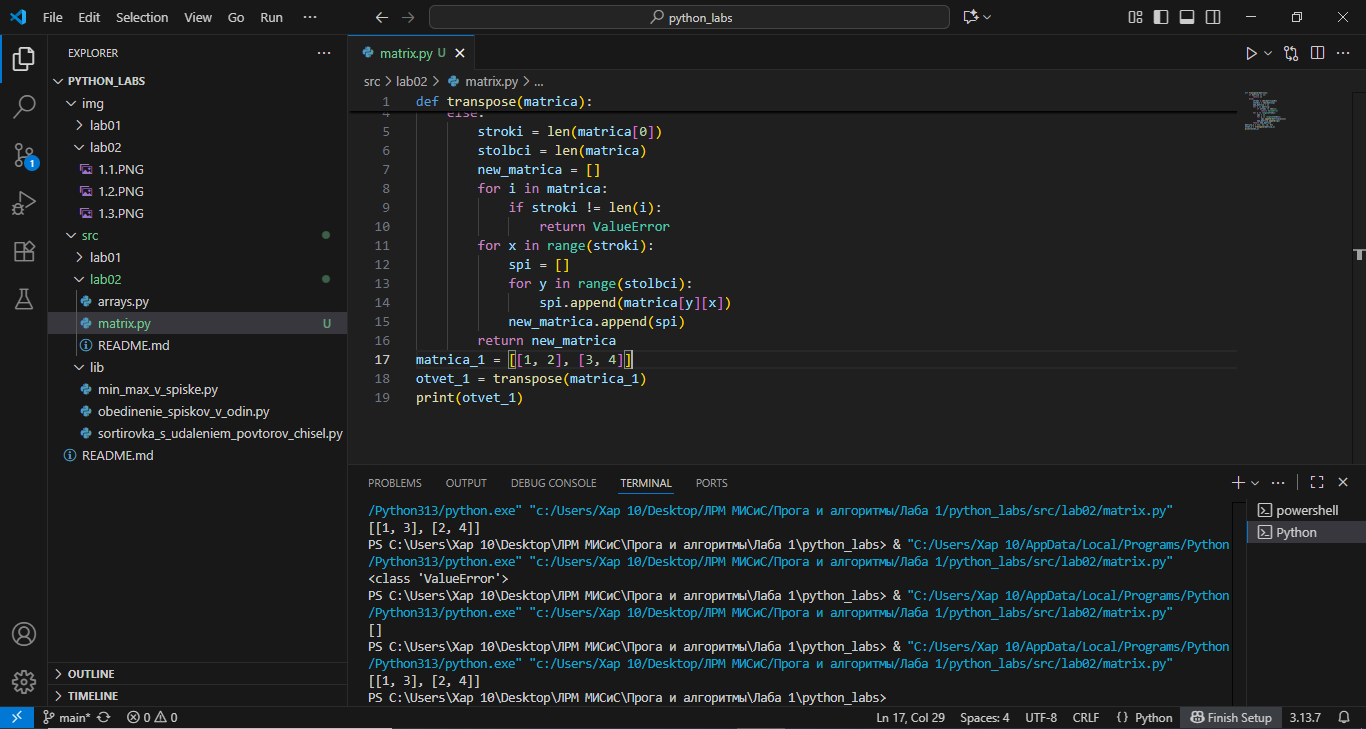
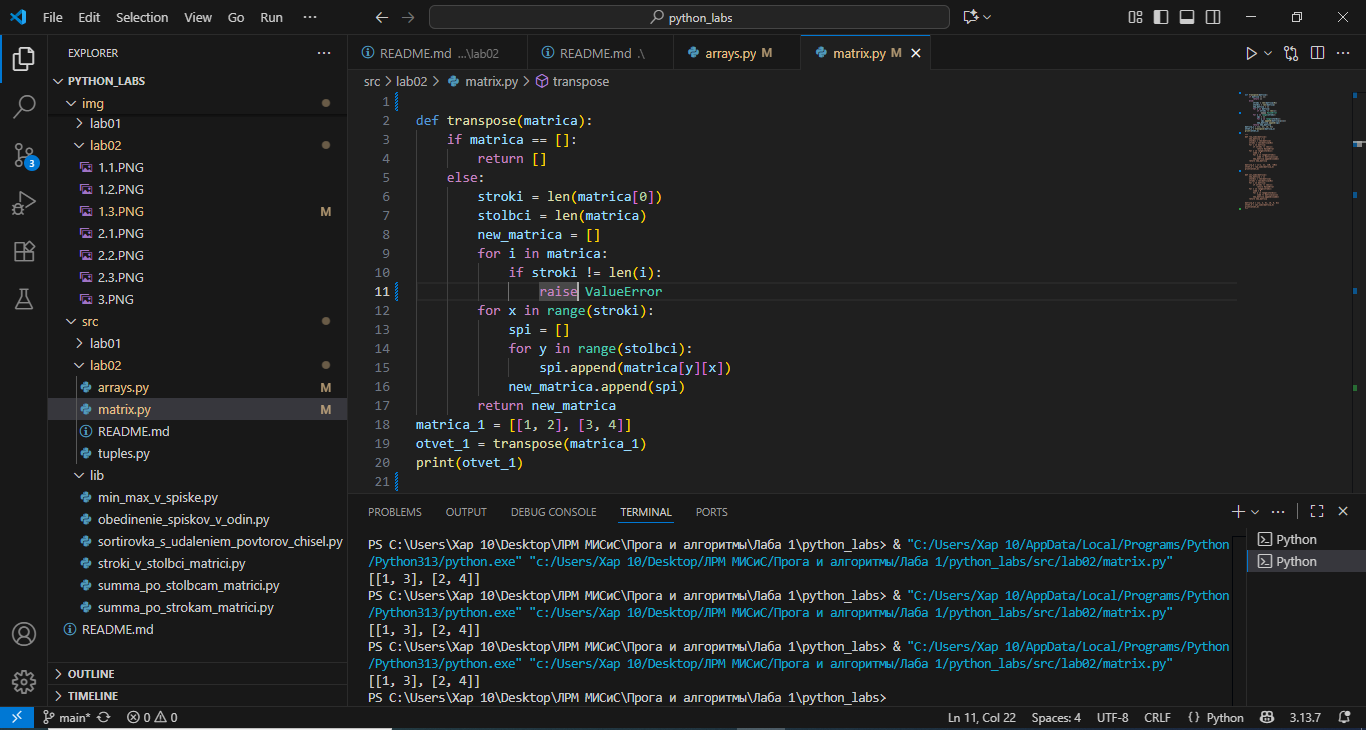
oshibki_ispravleny

diff --git a/src/lab02/matrix.py b/src/lab02/matrix.py
@@ -8,7 +8,7 @@ def transpose(matrica):
         new_matrica = []
         for i in matrica:
             if stroki != len(i):
-                return ValueError
+                raise ValueError
         for x in range(stroki):
             spi = []
             for y in range(stolbci):
@@ -26,7 +26,7 @@ def row_sums(matrica):
     stroki = len(matrica[0])
     for i in matrica:
         if stroki != len(i):
-            return ValueError
+            raise ValueError
     for x in range(stolbci):
         summ = 0
         for y in range(stroki):
@@ -37,15 +37,15 @@ def row_sums(matrica):
 matrica_2 = [[-1, 1], [10, -10]]
 otvet_2 = row_sums(matrica_2)
 print(otvet_2)
-"""
 
+"""
 def col_sums(matrica):
     new_matrica = []
     stolbci = len(matrica)
     stroki = len(matrica[0])
     for i in matrica:
         if stroki != len(i):
-            return ValueError
+            raise ValueError
     for x in range(stroki):
         summ = 0
         for y in range(stolbci):

diff --git a/src/lab02/arrays.py b/src/lab02/arrays.py
@@ -36,9 +36,9 @@ def flatten(spisok):
             for j in i:
                 new_spisok.append(j)
         else:
-            return TypeError
+            raise TypeError
     return new_spisok
 
-spisok_3 = [[1, 2], "ab"]
+spisok_3 = [[1, 2], [3, 4]]
 otvet_3 = flatten(spisok_3)
 print(otvet_3)

diff --git a/src/lab02/tuples.py b/src/lab02/tuples.py
@@ -1,7 +1,7 @@
 def format_record(rec: tuple[str, str, float]):
     for i in rec:
         if i == '':
-            return ValueError
+            raise ValueError
     new_dannye = ""
     fio = rec[0]
     fio = fio.split()
